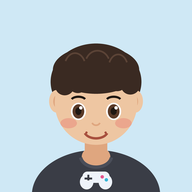
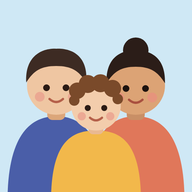
Renombrar la app a "Gurises" y nuevo ícono grupal
- Título, apple-mobile-web-app-title y manifest pasan a "Gurises"
- Menú de entrada con título Gurises; en cada hijo la pestaña dice "Nombre · Gurises"
- Ícono nuevo con tres chicos (reemplaza el de un solo nene); ?v=5 y cache SW v11
- Las tarjetas de Dante, Porotx e Isa no cambian

Claude-Session: https://claude.ai/code/session_013L3XiXrQbrdKDiiE3aeH3d

diff --git a/index.html b/index.html
@@ -3,15 +3,15 @@
 <head>
 <meta charset="UTF-8">
 <meta name="viewport" content="width=device-width, initial-scale=1.0, viewport-fit=cover">
-<title>Dante</title>
+<title>Gurises</title>
 
-<link rel="icon" href="icons/icon-192.png?v=4">
-<link rel="apple-touch-icon" href="icons/icon-192.png?v=4">
+<link rel="icon" href="icons/icon-192.png?v=5">
+<link rel="apple-touch-icon" href="icons/icon-192.png?v=5">
 <meta name="theme-color" content="#c9622a">
 <meta name="mobile-web-app-capable" content="yes">
 <meta name="apple-mobile-web-app-capable" content="yes">
 <meta name="apple-mobile-web-app-status-bar-style" content="default">
-<meta name="apple-mobile-web-app-title" content="Dante">
+<meta name="apple-mobile-web-app-title" content="Gurises">
 
 <link rel="manifest" href="manifest.json">
 
@@ -507,7 +507,7 @@
 
 <header>
   <button class="panel-btn" id="openHomeBtn">☰ Panel</button>
-  <h1><img src="icons/icon-192.png?v=4" alt="" style="width:28px;height:28px;vertical-align:-6px;border-radius:6px;margin-right:6px;"> <span class="hijo-nombre">Dante</span></h1>
+  <h1><img src="icons/icon-192.png?v=5" alt="" style="width:28px;height:28px;vertical-align:-6px;border-radius:6px;margin-right:6px;"> <span class="hijo-nombre">Dante</span></h1>
   <div class="month-nav">
     <button id="prevMonth">‹</button>
     <div class="month-label" id="monthLabel"></div>
@@ -833,7 +833,7 @@
 
 <!-- Pantalla: Panel principal -->
 <div id="homeView" class="open">
-  <div class="home-top"><h1><img src="icons/icon-192.png?v=4" alt=""> <span class="hijo-nombre">Dante</span></h1><button id="cambiarHijoBtn" style="margin-top:6px;font-size:.75rem;padding:4px 12px;border-radius:14px;border:1px solid #ccc;background:#fff;color:#555;">⇄ Cambiar de hijo</button></div>
+  <div class="home-top"><h1><img src="icons/icon-192.png?v=5" alt=""> <span class="hijo-nombre">Dante</span></h1><button id="cambiarHijoBtn" style="margin-top:6px;font-size:.75rem;padding:4px 12px;border-radius:14px;border:1px solid #ccc;background:#fff;color:#555;">⇄ Cambiar de hijo</button></div>
   <div class="home-body">
     <div class="home-lock">👀 Modo solo lectura <button id="homeUnlockBtn">🔒 Editar</button></div>
     <div id="homeToday" style="display:none;"></div>
@@ -2694,10 +2694,10 @@ document.querySelectorAll('#moreOptionsMenu .menu-item').forEach(btn=>{
 
 // Si el link no trae ?fam=... no hay con quién sincronizar: avisamos y no arrancamos a ciegas
 function mostrarSelectorHijos(){
-  document.title = 'Cuidados';
+  document.title = 'Gurises';
   document.body.innerHTML = `
     <div style="max-width:420px;margin:0 auto;padding:48px 20px;text-align:center;font-family:sans-serif;">
-      <h1 style="margin:0 0 6px;font-size:1.5rem;">Cuidados</h1>
+      <h1 style="margin:0 0 6px;font-size:1.5rem;">Gurises</h1>
       <p style="color:#8a8a8a;margin:0 0 28px;">¿De quién querés ver la info?</p>
       <div style="display:grid;gap:14px;">
         ${HIJOS.map(h=>`<a href="?fam=${encodeURIComponent(h.id)}" style="display:block;padding:22px 16px;border-radius:16px;background:#fff;border:1px solid #e6e3dc;text-decoration:none;color:#2b2b2b;box-shadow:0 1px 3px rgba(0,0,0,.05);">
@@ -2713,7 +2713,7 @@ function iniciarApp(){
     mostrarSelectorHijos();
     return;
   }
-  document.title = nombreHijo();
+  document.title = nombreHijo() + ' · Gurises';
   document.querySelectorAll('.hijo-nombre').forEach(el=>{ el.textContent = nombreHijo(); });
   const cambiarBtn = document.getElementById('cambiarHijoBtn');
   if(cambiarBtn) cambiarBtn.addEventListener('click', ()=>{ window.location.href = window.location.pathname; });

diff --git a/sw.js b/sw.js
@@ -1,9 +1,9 @@
-const CACHE_NAME = 'cuidados-v10';
+const CACHE_NAME = 'cuidados-v11';
 const ASSETS = [
   './index.html',
   './manifest.json',
-  './icons/icon-192.png?v=4',
-  './icons/icon-512.png?v=4'
+  './icons/icon-192.png?v=5',
+  './icons/icon-512.png?v=5'
 ];
 
 self.addEventListener('install', (event) => {
